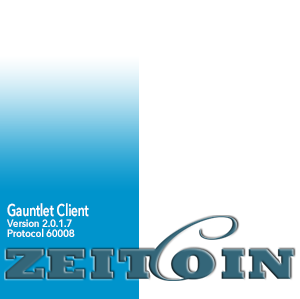
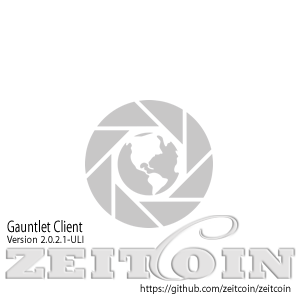
ULI implementation

diff --git a/src/main.h b/src/main.h
@@ -41,7 +41,7 @@ static const int64 MAX_MINT_PROOF_OF_STAKE2 = 0.000005 * COIN; // 0.0005% annual
 // Hard Fork constants
 static const int CUTOFF_POW_BLOCK = 270000;
 static const int FORK_2017_TIME = 1438419600; // Hardfork 2015-08-01 10:00:00 UTC
-static const int FORK_2017_TIME_SWITCH2 = 1500120000; // Human time (GMT): Saturday, 15. July 2017 12:00:00
+static const int FORK_2017_TIME_SWITCH2 = 1502452800; // HardFork 2017-08-11 12:00:00 GMT
 
 static const int64 MIN_TXOUT_AMOUNT = MIN_TX_FEE;
 

diff --git a/src/clientversion.h b/src/clientversion.h
@@ -9,7 +9,7 @@
 #define CLIENT_VERSION_MAJOR       2
 #define CLIENT_VERSION_MINOR       0
 #define CLIENT_VERSION_REVISION    2
-#define CLIENT_VERSION_BUILD       0
+#define CLIENT_VERSION_BUILD       1
 
 // Converts the parameter X to a string after macro replacement on X has been performed.
 // Don't merge these into one macro!

diff --git a/src/version.h b/src/version.h
@@ -47,6 +47,6 @@ static const int MEMPOOL_GD_VERSION = 60002;
 #define DISPLAY_VERSION_MAJOR       2
 #define DISPLAY_VERSION_MINOR       0
 #define DISPLAY_VERSION_REVISION    2
-#define DISPLAY_VERSION_BUILD       0
+#define DISPLAY_VERSION_BUILD       1
 
 #endif

diff --git a/README.md b/README.md
@@ -1,16 +1,23 @@
 ![enter image description here](http://new.zeit-coin.net/wp-content/uploads/zeitlogo4.png)
 
-Zeitcoin [**ZEIT**] Version 2.0.1.7 (Gauntlet)
+Zeitcoin is an innovative, secure and energy efficient PoST coin.  (Proof of Staked Transactions)
+By moving to Ultra Low Inflation, ZEIT Users will be able to earn more coins , 
+by processing Transactions once the blocks are full than from the interest rate.
 
-Zeitcoin is an innovative, secure and energy efficient PoS coin.
-
-Zeitcoin adopt a variable PoS rate, which gives the highest payout at 25% the first year, then decrease 5% per year until the 4th year it reaches annual interest rate of 5%, then it will remain at this rate.
+Zeitcoin adopt a variable PoST rate,
+which gives the highest payout at 25% the first year, 20% the 2nd year , 15% the 3rd year , 5% for ~5 months ,
+Final Forever .0005% yearly (Ultra Low Inflation)
 
 Zeitcoin will have a total of 90 billion coins.
 
-PoS will start after at least 20 days of holding of the coins in the wallet. With PoS, the coin is more resilient to 51% attack.
+PoST will start after at least 1 day of holding of the coins in the wallet. 
+Staked Blocks older than 25 hours will not split upon staking. 
+Staked Blocks younger than 25 hours will split upon staking.
+With PoST, the coin is more resilient to 51% attack.
 
-*Other Specifications:* 
-Difficulty retargets every block - PoS variable interests: - 1st year: 25% - 2nd year: 20% - 3rd year: 15% - 4th and subsequent years: 5% - Total coins will be 99 billions - 4 confirmations for transaction, thus fast 2 mins confirmation for transdactions - 50 confirmations for blocks - 1% premine for bounties, giveaways, development, support and maintenance, new feature developments etc.
+Other Specifications: Difficulty retargets every block - 
+PoST variable interests: - 1st year: 25% - 2nd year: 20% - 3rd year: 15% - ~5 months: 5% - Final Forever .0005% yearly (Ultra Low Inflation)
+PoST Minimum Stake Age : 1 Day    -  PoST Maximum Stake Age : 20 Days 
+- Total coins will be 99 billions - 4 confirmations for transaction, thus fast 2 mins confirmation for transactions - 50 confirmations for blocks - 1% premine for bounties, giveaways, development, support and maintenance, new feature developments etc.
 
 Visit us at: http://www.zeit-coin.net
